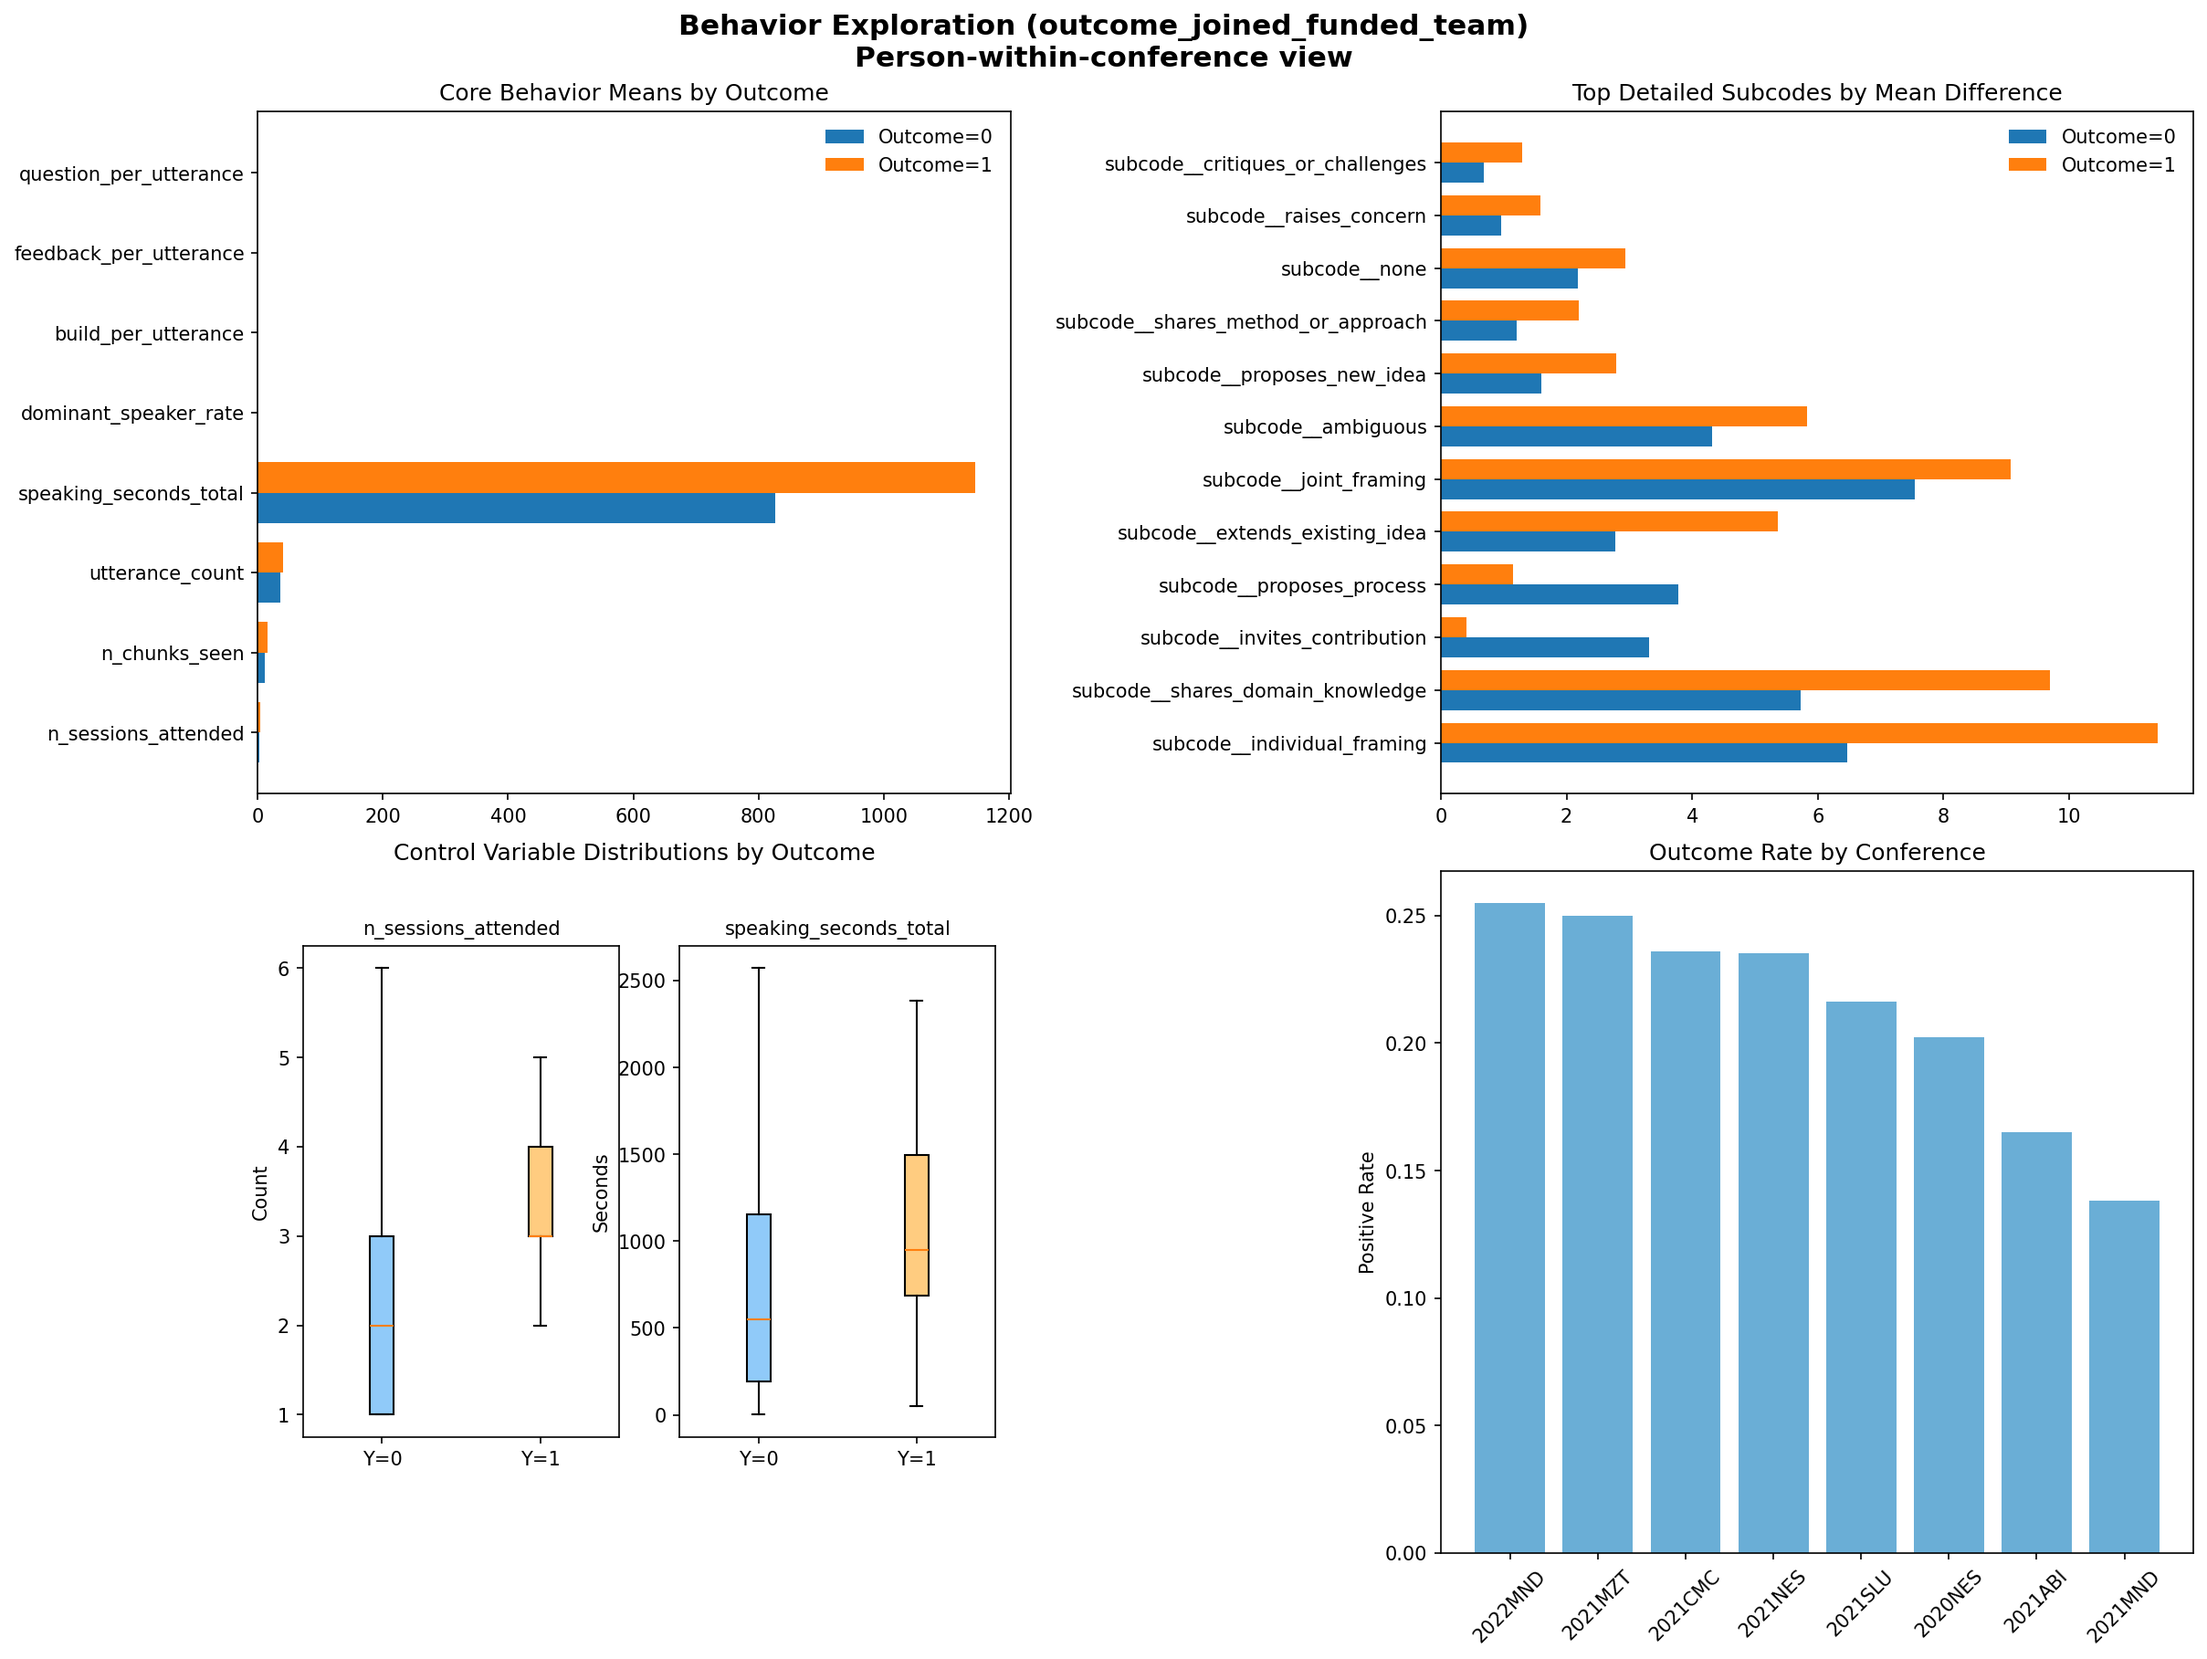
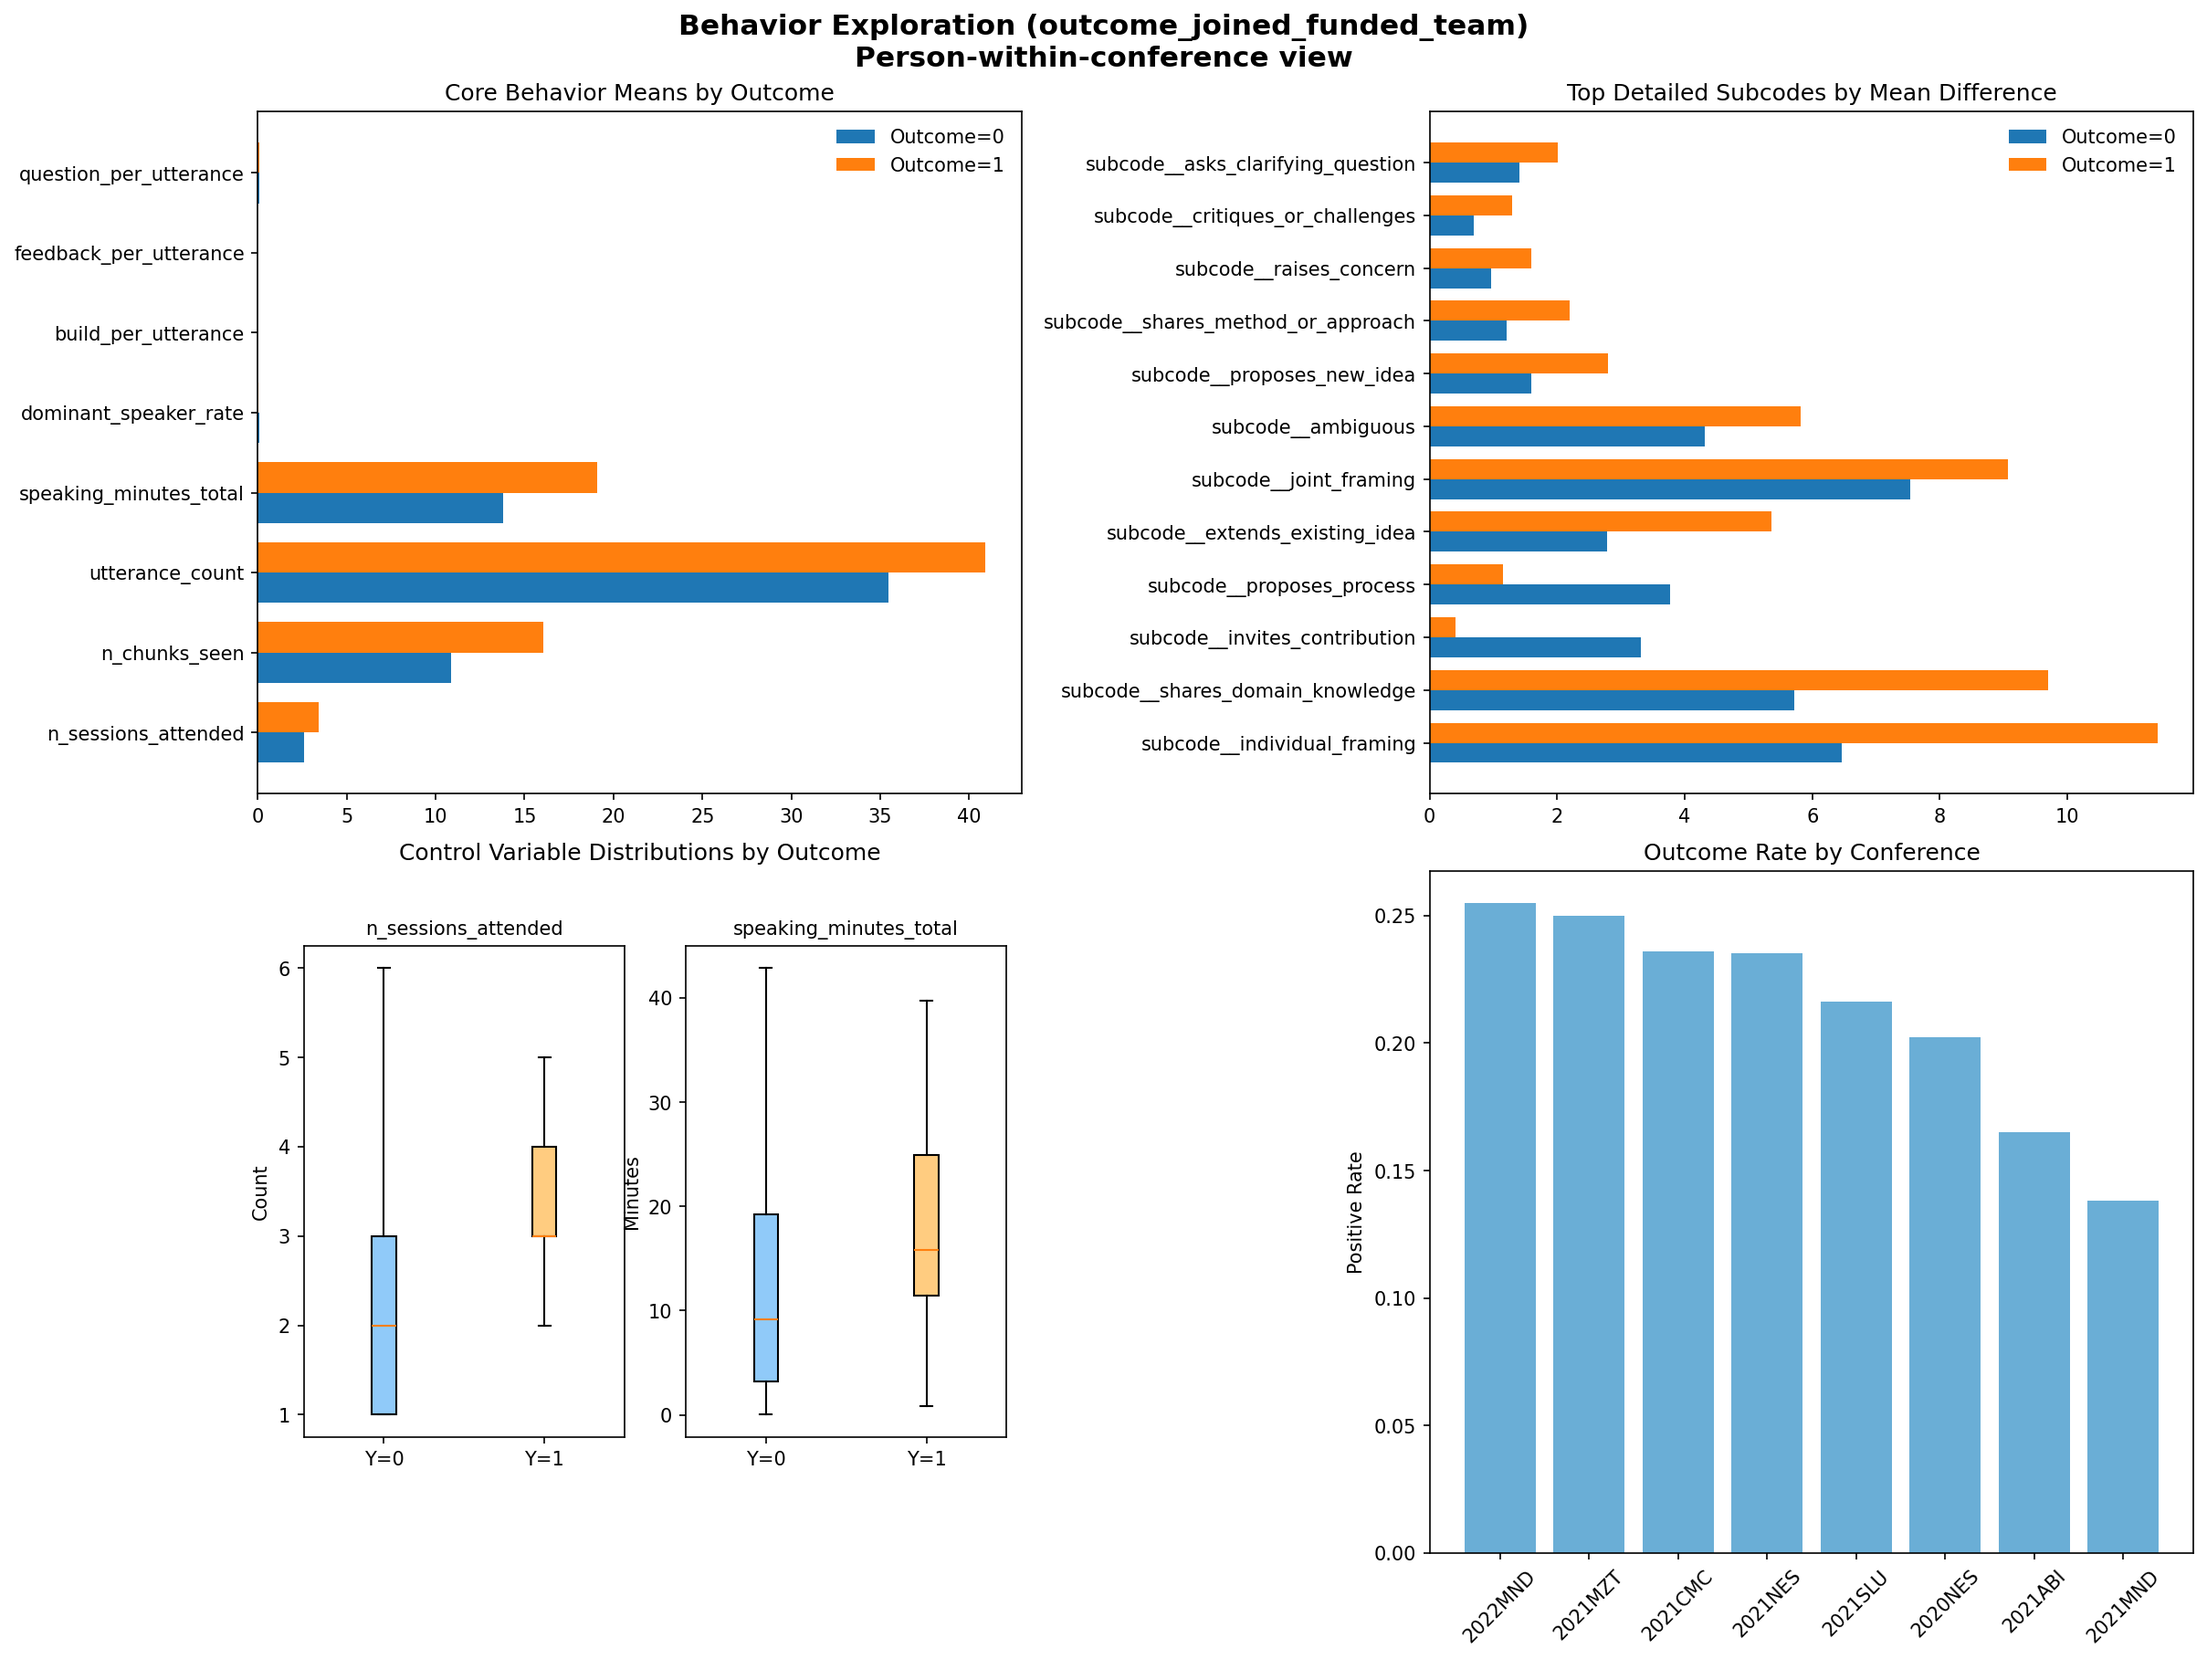
Add facilitator control, remove subcode_none, convert speaking-time plots to minutes, and add non-facilitator sensitivity check

diff --git a/analysis_v2/src/person_visualizations.py b/analysis_v2/src/person_visualizations.py
@@ -49,13 +49,15 @@ df = pd.read_csv(INPUT_PATH).copy()
 
 if "n_sessions_attended" not in df.columns and "n_sessions_seen" in df.columns:
     df["n_sessions_attended"] = df["n_sessions_seen"]
+if "speaking_minutes_total" not in df.columns and "speaking_seconds_total" in df.columns:
+    df["speaking_minutes_total"] = df["speaking_seconds_total"] / 60.0
 
 targets = ["outcome_joined_team", "outcome_joined_funded_team"]
-subcode_cols = [c for c in df.columns if c.startswith("subcode__")]
+subcode_cols = [c for c in df.columns if c.startswith("subcode__") and c != "subcode__none"]
 
-controls = [c for c in ["n_sessions_attended", "speaking_seconds_total"] if c in df.columns]
+controls = [c for c in ["n_sessions_attended", "speaking_minutes_total"] if c in df.columns]
 if len(controls) < 2:
-    raise ValueError("Expected controls n_sessions_attended and speaking_seconds_total")
+    raise ValueError("Expected controls n_sessions_attended and speaking_minutes_total")
 
 core_behavior_cols = [
     c
@@ -63,7 +65,7 @@ core_behavior_cols = [
         "n_sessions_attended",
         "n_chunks_seen",
         "utterance_count",
-        "speaking_seconds_total",
+        "speaking_minutes_total",
         "dominant_speaker_rate",
         "build_per_utterance",
         "feedback_per_utterance",
@@ -79,6 +81,95 @@ def norm_name(text: object) -> str:
     s = s.lower().strip()
     s = re.sub(r"[^a-z0-9]+", " ", s)
     return re.sub(r"\s+", " ", s).strip()
+
+
+def build_facilitator_flag(base_df: pd.DataFrame) -> pd.DataFrame:
+    """Create conference+person facilitator flag from session_data role labels."""
+    by_conf = BASE / "finalized_matching_csvs" / "global_participant_identity_by_conference.csv"
+    alias_path = BASE / "participant_alias_mapping.csv"
+    session_dir = BASE / "analysis_v1" / "data"
+    if not by_conf.exists() or not session_dir.exists():
+        out = base_df.copy()
+        out["is_facilitator"] = 0
+        return out
+
+    alias_map: dict[str, str] = {}
+    if alias_path.exists():
+        adf = pd.read_csv(alias_path)
+        for _, r in adf.iterrows():
+            a = norm_name(r.get("alias_name"))
+            c = norm_name(r.get("canonical_name"))
+            if a and c:
+                alias_map[a] = c
+
+    def resolve_alias(name: str) -> str:
+        cur = name
+        seen = set()
+        while cur in alias_map and cur not in seen:
+            seen.add(cur)
+            cur = alias_map[cur]
+        return cur
+
+    map_df = pd.read_csv(by_conf).copy()
+    map_df["conference"] = map_df["conference"].astype(str).str.strip()
+    map_df["normalized_name"] = map_df["normalized_name"].astype(str).map(norm_name).map(resolve_alias)
+    lookup = {(r["conference"], r["normalized_name"]): r["global_person_id"] for _, r in map_df.iterrows()}
+
+    def role_is_facilitator(role: object) -> int:
+        rs = str(role).strip().lower()
+        if not rs:
+            return 0
+        return int(
+            ("facilitator" in rs)
+            or ("program director" in rs)
+            or ("program officer" in rs)
+        )
+
+    rows = []
+    for jp in sorted(session_dir.glob("*/session_data/*.json")):
+        conference = jp.parent.parent.name.strip()
+        try:
+            payload = json.loads(jp.read_text())
+        except Exception:
+            continue
+        for row in payload.get("all_data", []):
+            if not isinstance(row, dict):
+                continue
+            speaker = resolve_alias(norm_name(row.get("speaker")))
+            if not speaker:
+                continue
+            pid = lookup.get((conference, speaker))
+            if not pid:
+                continue
+            rows.append(
+                {
+                    "conference": conference,
+                    "global_person_id": pid,
+                    "fac_count": role_is_facilitator(row.get("role")),
+                    "n_rows": 1,
+                }
+            )
+
+    out = base_df.copy()
+    if not rows:
+        out["is_facilitator"] = 0
+        return out
+
+    role_df = pd.DataFrame(rows)
+    role_df = role_df.groupby(["conference", "global_person_id"], as_index=False)[["fac_count", "n_rows"]].sum()
+    role_df["is_facilitator"] = (role_df["fac_count"] > 0).astype(int)
+    out = out.merge(
+        role_df[["conference", "global_person_id", "is_facilitator"]],
+        on=["conference", "global_person_id"],
+        how="left",
+    )
+    out["is_facilitator"] = out["is_facilitator"].fillna(0).astype(int)
+    return out
+
+
+df = build_facilitator_flag(df)
+if "is_facilitator" not in controls:
+    controls.append("is_facilitator")
 
 
 def build_within_session_matrix(target: str):
@@ -250,9 +341,9 @@ def run_loco_predictions(data: pd.DataFrame, feature_cols: list[str], target: st
 
 
 metrics_rows = []
+sensitivity_rows = []
 
 for target in targets:
-    y = df[target].astype(int)
 
     # ----------------------------
     # (1) Exploration figure
@@ -292,7 +383,7 @@ for target in targets:
         axes[0, 1].set_title("Top Detailed Subcodes")
 
     # C) Clean control-variable distributions by outcome (split panels to avoid scale compression)
-    ctrl_plot_cols = [c for c in ["n_sessions_attended", "speaking_seconds_total"] if c in df.columns]
+    ctrl_plot_cols = [c for c in ["n_sessions_attended", "speaking_minutes_total"] if c in df.columns]
     if ctrl_plot_cols:
         axes[1, 0].set_title("Control Variable Distributions by Outcome")
         axes[1, 0].axis("off")
@@ -308,16 +399,16 @@ for target in targets:
         left_ax.set_title("n_sessions_attended", fontsize=10)
         left_ax.set_ylabel("Count")
 
-        # Right mini-panel: speaking_seconds_total
+        # Right mini-panel: speaking_minutes_total
         right_ax = axes[1, 0].inset_axes([0.56, 0.17, 0.42, 0.72])
-        ss0 = df.loc[df[target] == 0, "speaking_seconds_total"].dropna().values if "speaking_seconds_total" in ctrl_plot_cols else []
-        ss1 = df.loc[df[target] == 1, "speaking_seconds_total"].dropna().values if "speaking_seconds_total" in ctrl_plot_cols else []
+        ss0 = df.loc[df[target] == 0, "speaking_minutes_total"].dropna().values if "speaking_minutes_total" in ctrl_plot_cols else []
+        ss1 = df.loc[df[target] == 1, "speaking_minutes_total"].dropna().values if "speaking_minutes_total" in ctrl_plot_cols else []
         if len(ss0) and len(ss1):
             bp_right = right_ax.boxplot([ss0, ss1], patch_artist=True, tick_labels=["Y=0", "Y=1"], showfliers=False)
             bp_right["boxes"][0].set_facecolor("#90caf9")
             bp_right["boxes"][1].set_facecolor("#ffcc80")
-        right_ax.set_title("speaking_seconds_total", fontsize=10)
-        right_ax.set_ylabel("Seconds")
+        right_ax.set_title("speaking_minutes_total", fontsize=10)
+        right_ax.set_ylabel("Minutes")
     else:
         axes[1, 0].text(0.5, 0.5, "Control distributions unavailable", ha="center", va="center")
         axes[1, 0].set_title("Control Variable Distributions")
@@ -377,7 +468,7 @@ for target in targets:
             pass
 
     coef_plot_df["abs_coef"] = coef_plot_df["coef"].abs()
-    coef_plot_df = coef_plot_df.sort_values("abs_coef", ascending=False).head(12).sort_values("coef")
+    coef_plot_df = coef_plot_df.sort_values("coef")
     coef_plot_df["stars"] = coef_plot_df["pvalue"].map(p_to_stars)
 
     model_fig = plt.figure(figsize=(16, 12), constrained_layout=True)
@@ -387,7 +478,7 @@ for target in targets:
     ax3 = model_fig.add_subplot(gs[1, 0])
     ax4 = model_fig.add_subplot(gs[1, 1])
     model_fig.suptitle(
-        f"Person-Level Model Results ({target})\nControls: n_sessions_attended + speaking_seconds_total",
+        f"Person-Level Model Results ({target})\nControls: n_sessions_attended + speaking_minutes_total + is_facilitator",
         fontsize=15,
         fontweight="bold",
     )
@@ -463,9 +554,46 @@ for target in targets:
         }
     )
 
+    # non-facilitator-only sensitivity check
+    nonfac = df[df["is_facilitator"] == 0].copy()
+    nonfac_features = [c for c in model_features if c != "is_facilitator"]
+    if not nonfac.empty and nonfac[target].nunique() >= 2:
+        ny_true, ny_score, ny_pred = run_loco_predictions(nonfac, nonfac_features, target)
+        if len(np.unique(ny_true)) >= 2:
+            sensitivity_rows.append(
+                {
+                    "target": target,
+                    "sample": "non_facilitator_only",
+                    "n_rows": len(nonfac),
+                    "feature_count": len(nonfac_features),
+                    "accuracy_loco_pooled": accuracy_score(ny_true, ny_pred),
+                    "f1_loco_pooled": f1_score(ny_true, ny_pred, zero_division=0),
+                    "auc_loco_pooled": roc_auc_score(ny_true, ny_score),
+                    "auprc_loco_pooled": average_precision_score(ny_true, ny_score),
+                }
+            )
+
+    sensitivity_rows.append(
+        {
+            "target": target,
+            "sample": "all_rows",
+            "n_rows": len(df),
+            "feature_count": len(model_features),
+            "accuracy_loco_pooled": acc,
+            "f1_loco_pooled": f1,
+            "auc_loco_pooled": auc,
+            "auprc_loco_pooled": auprc,
+        }
+    )
+
 summary_df = pd.DataFrame(metrics_rows)
 summary_out = FEATURE_DIR / "person_model_visualization_summary.csv"
 summary_df.to_csv(summary_out, index=False)
+sense_df = pd.DataFrame(sensitivity_rows)
+sense_out = FEATURE_DIR / "person_model_non_facilitator_sensitivity.csv"
+sense_df.to_csv(sense_out, index=False)
 
 print("Saved summary:", summary_out)
 print(summary_df.to_string(index=False))
+print("\nSaved non-facilitator sensitivity:", sense_out)
+print(sense_df.to_string(index=False))
